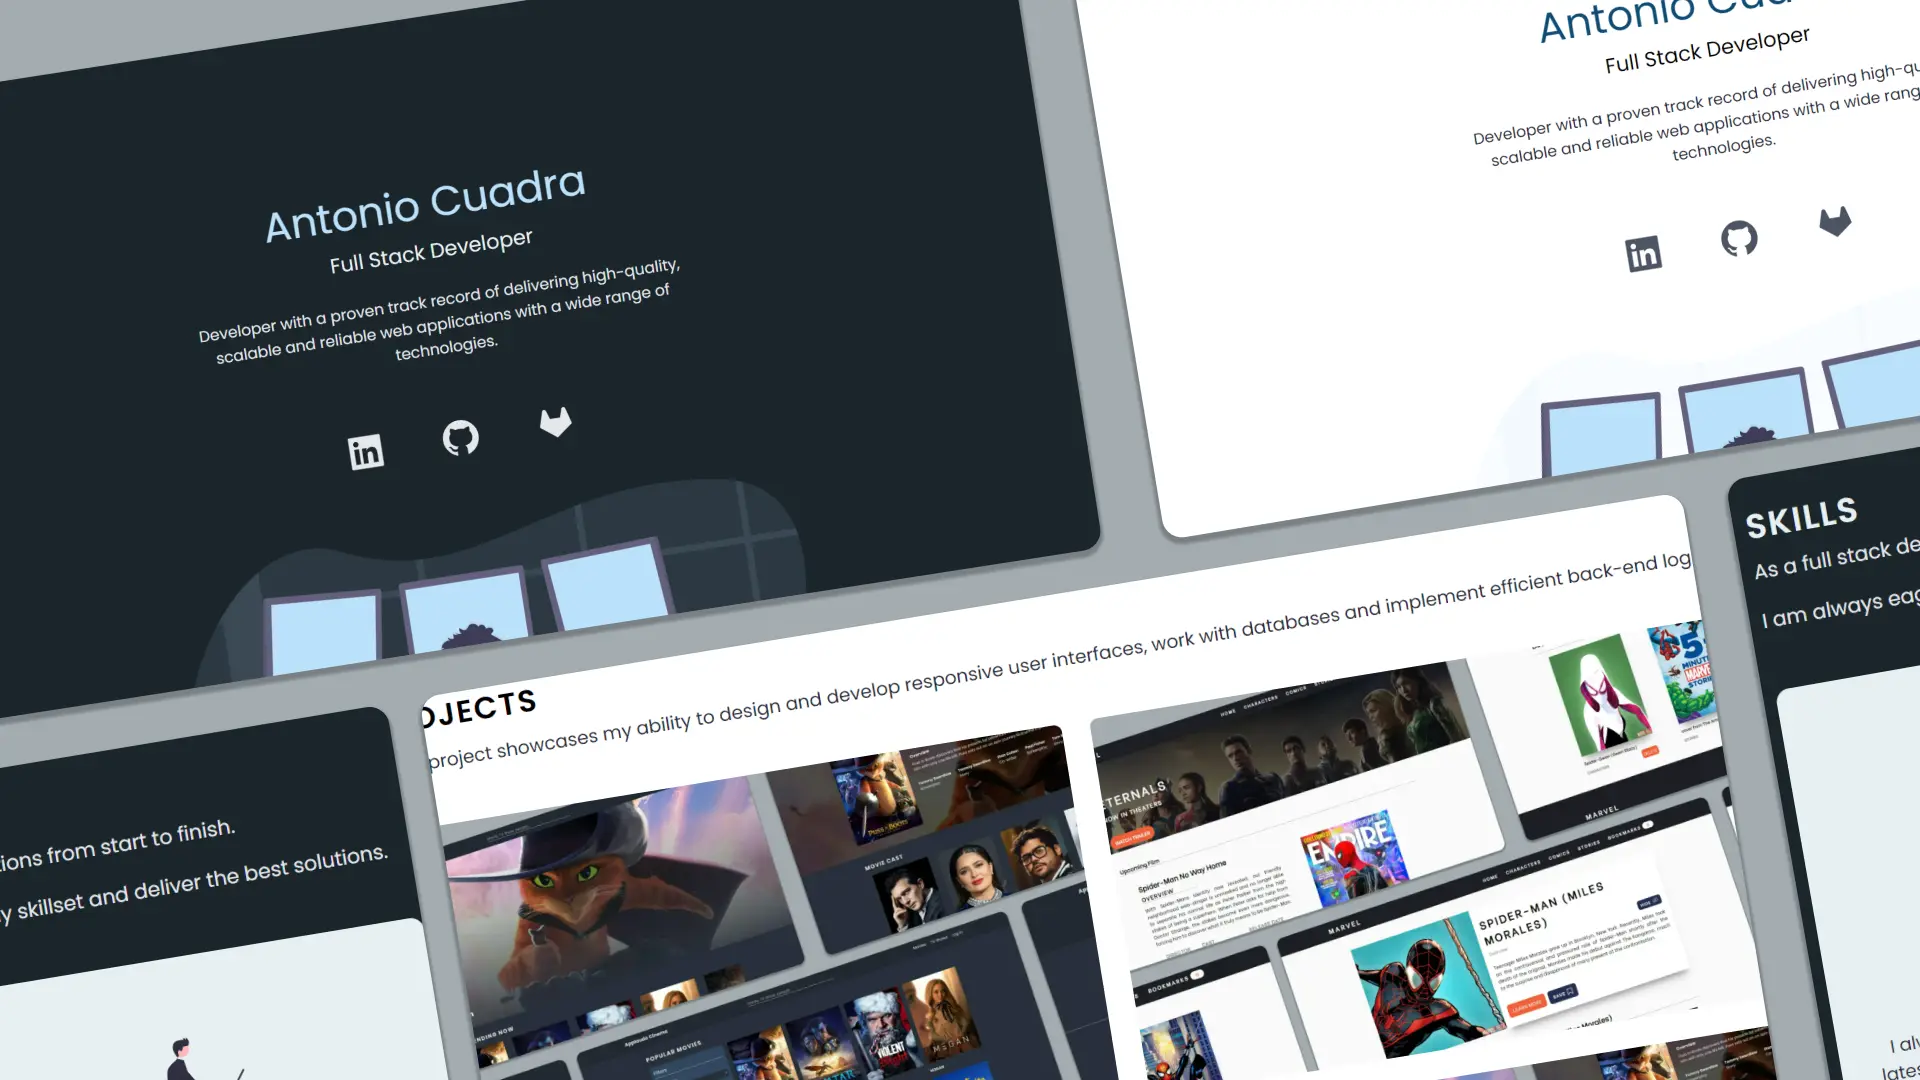
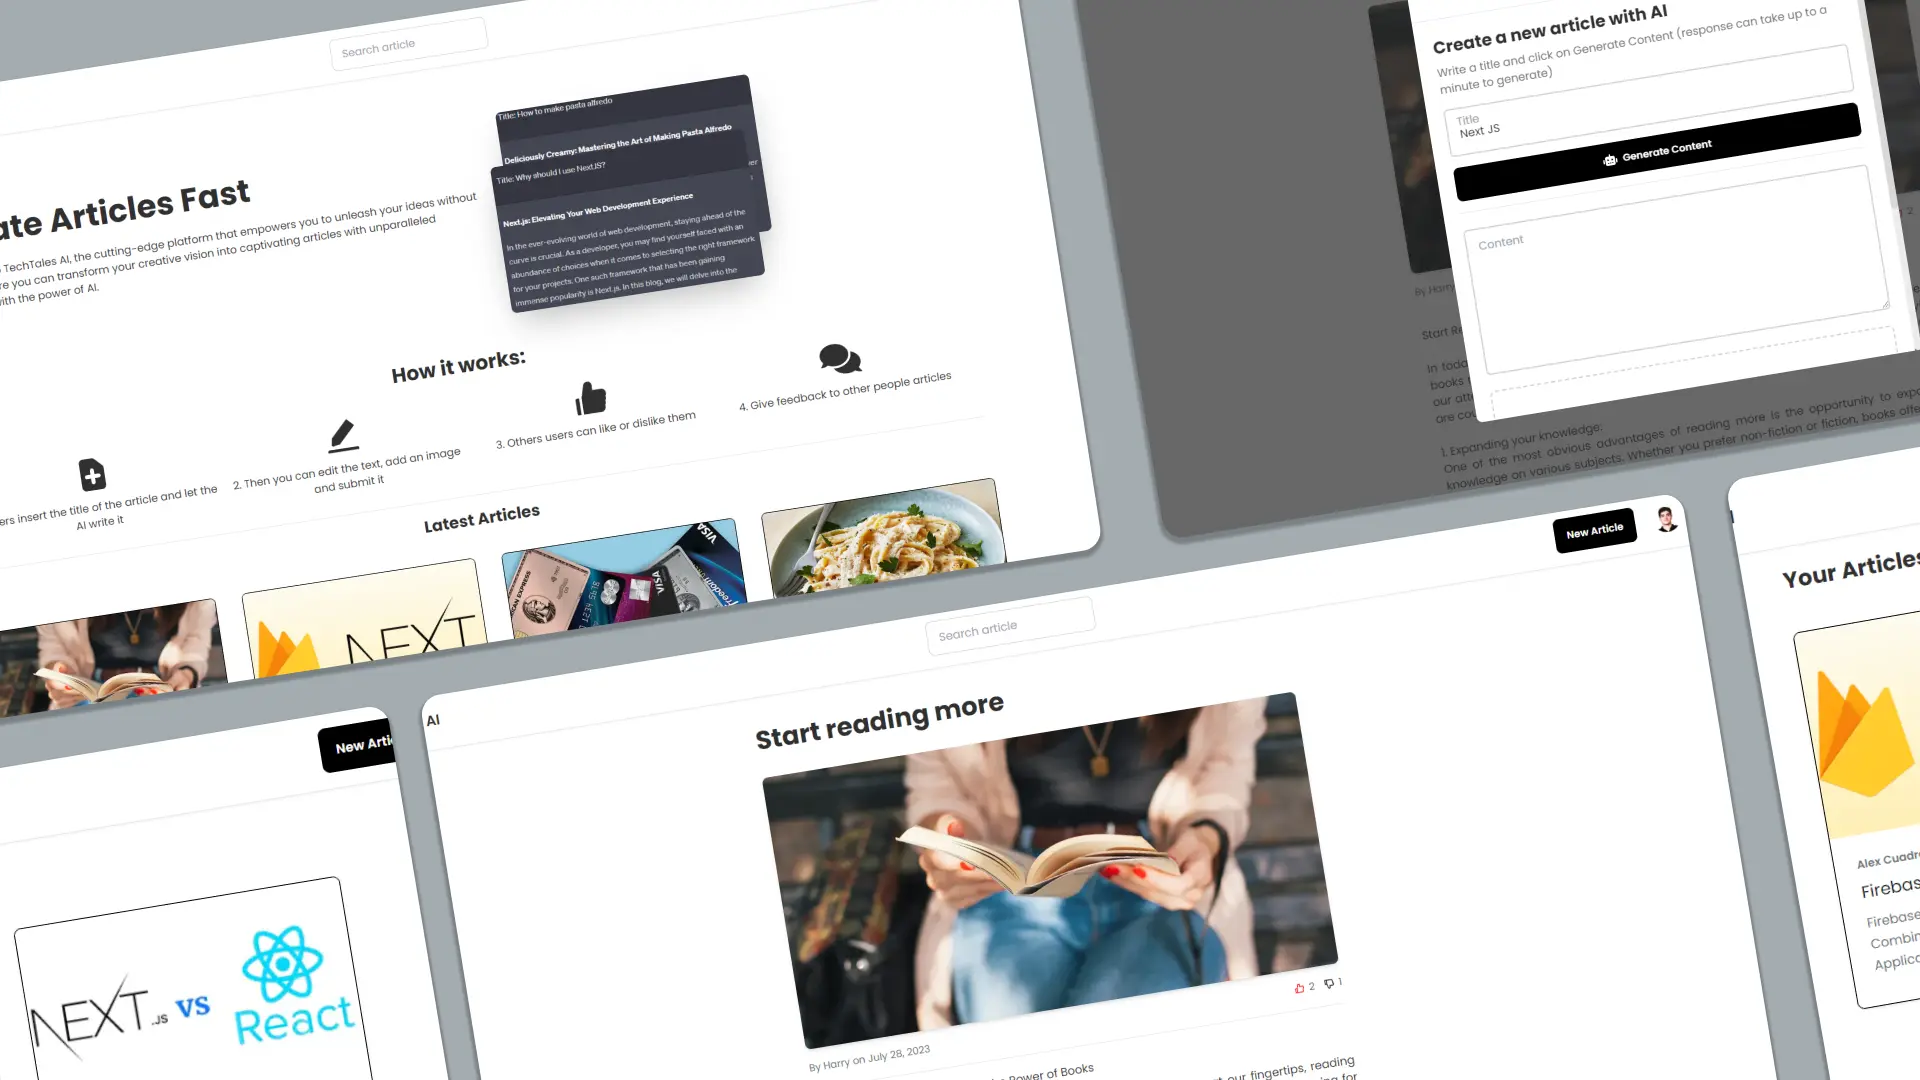
refactor: changing some things

diff --git a/pages/index.tsx b/pages/index.tsx
@@ -35,6 +35,15 @@ const container: Variants = {
 
 const projects = [
   {
+    id: 3,
+    image: web4,
+    title: 'Techtales-AI',
+    description:
+      'Create articles with AI, just typing a title and let the AI write it for you.',
+    repository: 'https://github.com/AlexC01/sheol-articles',
+    web: 'https://techtales-ai.vercel.app/',
+  },
+  {
     id: 0,
     image: web1,
     title: 'Movies Website',
@@ -60,15 +69,6 @@ const projects = [
       'Todo List with the use of localstorage and drag and drop functionality.',
     repository: 'https://github.com/AlexC01/To-Do-List',
     web: 'https://alexc01.github.io/To-Do-List/',
-  },
-  {
-    id: 3,
-    image: web4,
-    title: 'Professional Portfolio',
-    description:
-      'Portfolio to showcase my projects and skills using NextJs and Framer-Motion.',
-    repository: 'https://github.com/AlexC01/portfolio',
-    web: 'https://acuadraq.com/',
   },
 ];
 

diff --git a/README.md b/README.md
@@ -1,36 +1,11 @@
-This is a [Next.js](https://nextjs.org/) project bootstrapped with [`create-next-app`](https://github.com/vercel/next.js/tree/canary/packages/create-next-app).
+# Portfolio
 
-## Getting Started
+![](public/portfolio.png)
 
-First, run the development server:
+## Description
 
-```bash
-npm run dev
-# or
-yarn dev
-```
+This is my profesional portfolio, here you can find information about me, my skills, my projects and my contact information.
 
-Open [http://localhost:3000](http://localhost:3000) with your browser to see the result.
+- It is using NextJS and tailwindcss with some plugins for animations.
 
-You can start editing the page by modifying `pages/index.tsx`. The page auto-updates as you edit the file.
-
-[API routes](https://nextjs.org/docs/api-routes/introduction) can be accessed on [http://localhost:3000/api/hello](http://localhost:3000/api/hello). This endpoint can be edited in `pages/api/hello.ts`.
-
-The `pages/api` directory is mapped to `/api/*`. Files in this directory are treated as [API routes](https://nextjs.org/docs/api-routes/introduction) instead of React pages.
-
-This project uses [`next/font`](https://nextjs.org/docs/basic-features/font-optimization) to automatically optimize and load Inter, a custom Google Font.
-
-## Learn More
-
-To learn more about Next.js, take a look at the following resources:
-
-- [Next.js Documentation](https://nextjs.org/docs) - learn about Next.js features and API.
-- [Learn Next.js](https://nextjs.org/learn) - an interactive Next.js tutorial.
-
-You can check out [the Next.js GitHub repository](https://github.com/vercel/next.js/) - your feedback and contributions are welcome!
-
-## Deploy on Vercel
-
-The easiest way to deploy your Next.js app is to use the [Vercel Platform](https://vercel.com/new?utm_medium=default-template&filter=next.js&utm_source=create-next-app&utm_campaign=create-next-app-readme) from the creators of Next.js.
-
-Check out our [Next.js deployment documentation](https://nextjs.org/docs/deployment) for more details.
+If you want to see it in real time use this url: https://www.acuadraq.com/
